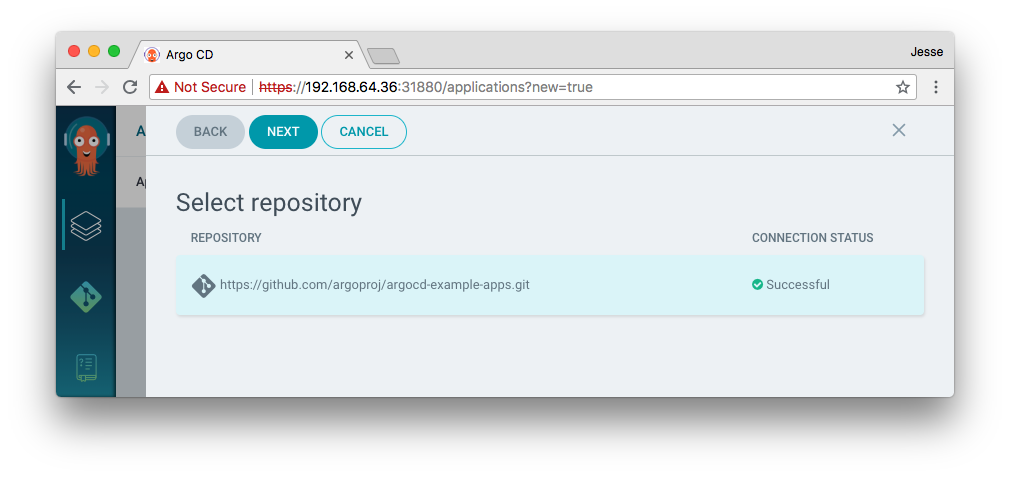
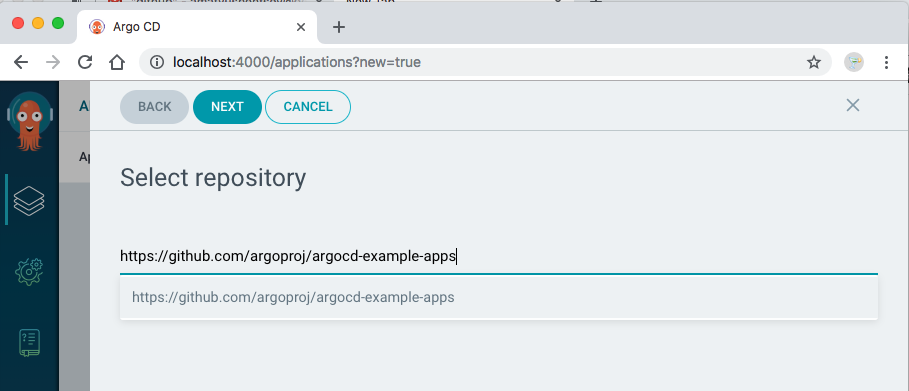
Add declarative argocd setup docs (#813)
* Add declarative argocd setup docs

* Add Helm repositories documentation

diff --git a/docs/declarative-setup.md b/docs/declarative-setup.md
@@ -1,0 +1,162 @@
+# Declarative Setup
+
+Argo CD settings might be defined declaratively using Kubernetes manifests.
+
+## Repositories
+
+Repository credentials are stored in secret. Use following steps to configure a repo:
+
+1. Create secret which contains repository credentials. Consider using [bitnami-labs/sealed-secrets](https://github.com/bitnami-labs/sealed-secrets) to store encrypted secret
+definition as a Kubernetes manifest.
+
+2. Register repository in `argocd-cm` config map. Each repository must have `url` field and `usernameSecret`, `passwordSecret` or `sshPrivateKeySecret`.
+
+Example:
+
+```yaml
+apiVersion: v1
+data:
+  dex.config: |
+    connectors:
+    - type: github
+      id: github
+      name: GitHub
+      config:
+        clientID: e8f597564a82e99ba9aa
+        clientSecret: e551007c6c6dbc666bdade281ff095caec150159
+  repositories: |
+    - passwordSecret:
+        key: password
+        name: my-secret
+      url: https://github.com/argoproj/my-private-repository
+      usernameSecret:
+        key: username
+        name: my-secret
+  url: http://localhost:4000
+kind: ConfigMap
+metadata:
+  name: argocd-cm
+```
+
+## Clusters
+
+Cluster credentials are stored in secrets same as repository credentials but does not require entry in `argocd-cm` config map. Each secret must have label
+`argocd.argoproj.io/secret-type: cluster` and name which is following convention: `<hostname>-<port>`.
+
+The secret data must include following fields:
+* `name` - cluster name
+* `server` - cluster api server url
+* `config` - JSON representation of following data structure:
+
+```yaml
+# Basic authentication settings
+username: string
+password: string
+# Bearer authentication settings
+bearerToken: string
+# IAM authentication configuration
+awsAuthConfig:
+    clusterName: string
+    roleARN: string
+# Transport layer security configuration settings
+tlsClientConfig:
+    # PEM-encoded bytes (typically read from a client certificate file).
+    caData: string
+    # PEM-encoded bytes (typically read from a client certificate file).
+    certData: string
+    # Server should be accessed without verifying the TLS certificate
+    insecure: boolean
+    # PEM-encoded bytes (typically read from a client certificate key file).
+    keyData: string
+    # ServerName is passed to the server for SNI and is used in the client to check server
+    # ceritificates against. If ServerName is empty, the hostname used to contact the
+    # server is used.
+    serverName: string
+```
+
+
+Cluster secret example:
+
+```yaml
+apiVersion: v1
+stringData:
+  config: |||
+    {
+        "bearerToken": "<authentication token>",
+        "tlsClientConfig": {
+            "insecure": false,
+            "caData": "<base64 encoded certificate>"
+        }
+    }
+  |||
+  name: mycluster.com
+  server: https://mycluster.com
+kind: Secret
+metadata:
+  labels:
+    argocd.argoproj.io/secret-type: cluster
+  name: mycluster.com-443
+type: Opaque
+```
+
+## Helm Chart repositories
+
+Non standard Helm Chart repositories have to be registered using `helm.repositories` in `argocd-cm` config map. Each repository must have `url` and `name` fields.
+For private Helm repos you might configure access credentials and HTTPS settings using `usernameSecret`, `passwordSecret`, `caSecret`, `certSecret` and `keySecret` fields.
+
+Example:
+
+```yaml
+apiVersion: v1
+data:
+  helm.repositories: |
+    - url: https://argoproj.github.io/argo-helm
+      name: argo
+      caUsername:
+        name: my-secret
+        key: username
+      caPassword:
+        name: my-secret
+        key: password
+      caSecret:
+        name: my-secret
+        key: ca
+      certSecret:
+        name: my-secret
+        key: cert
+      keySecret:
+        name: my-secret
+        key: key
+metadata:
+  name: argocd-cm
+```
+
+## SSO & RBAC
+
+* SSO configuration details: [SSO](sso.md)
+* RBAC configuration details: [RBAC](rbac.md)
+
+## Manage Argo CD using Argo CD
+
+Argo CD is able to manage itself since all settings are represented by Kubernetes manifests. The suggested way is to create [Kustomize](https://github.com/kubernetes-sigs/kustomize)
+based application which uses base Argo CD manifests from https://github.com/argoproj/argo-cd and apply required changes on top.
+
+Example of `kustomization.yaml`:
+
+```yaml
+bases:
+- github.com/argoproj/argo-cd//manifests/cluster-install?ref=v0.10.6
+
+# additional resources like ingress rules, cluster and repository secrets.
+resources:
+- clusters-secrets.yaml
+- repos-secrets.yaml
+
+# changes to config maps
+patchesStrategicMerge:
+- overlays/argo-cd-cm.yaml
+```
+
+The live example of self managed Argo CD config is available at https://cd.apps.argoproj.io and with configuration
+stored at [argoproj/argoproj-deployments](https://github.com/argoproj/argoproj-deployments/tree/master/argocd).
+> NOTE: You will need to sign-in using your github account to get access to https://cd.apps.argoproj.io

diff --git a/docs/getting_started.md b/docs/getting_started.md
@@ -105,7 +105,7 @@ management tasks (i.e. deploy/monitoring).
 Open a browser to the Argo CD external UI, and login using the credentials set in step 4, and the
 external IP/hostname set in step 4.
 
-Connect a git repository containing your apps. An example repository containing a sample
+Connect a git repository containing your apps if repository is private. An example repository containing a sample
 guestbook application is available at https://github.com/argoproj/argocd-example-apps.git.
 
 ![connect repo](assets/connect_repo.png)

diff --git a/docs/README.md b/docs/README.md
@@ -16,6 +16,7 @@
 * [Single Sign On](sso.md)
 * [Webhooks](webhook.md)
 * [RBAC](rbac.md)
+* [Declarative Setup](declarative-setup.md)
 
 ## Other
 * [Best Practices](best_practices.md)
